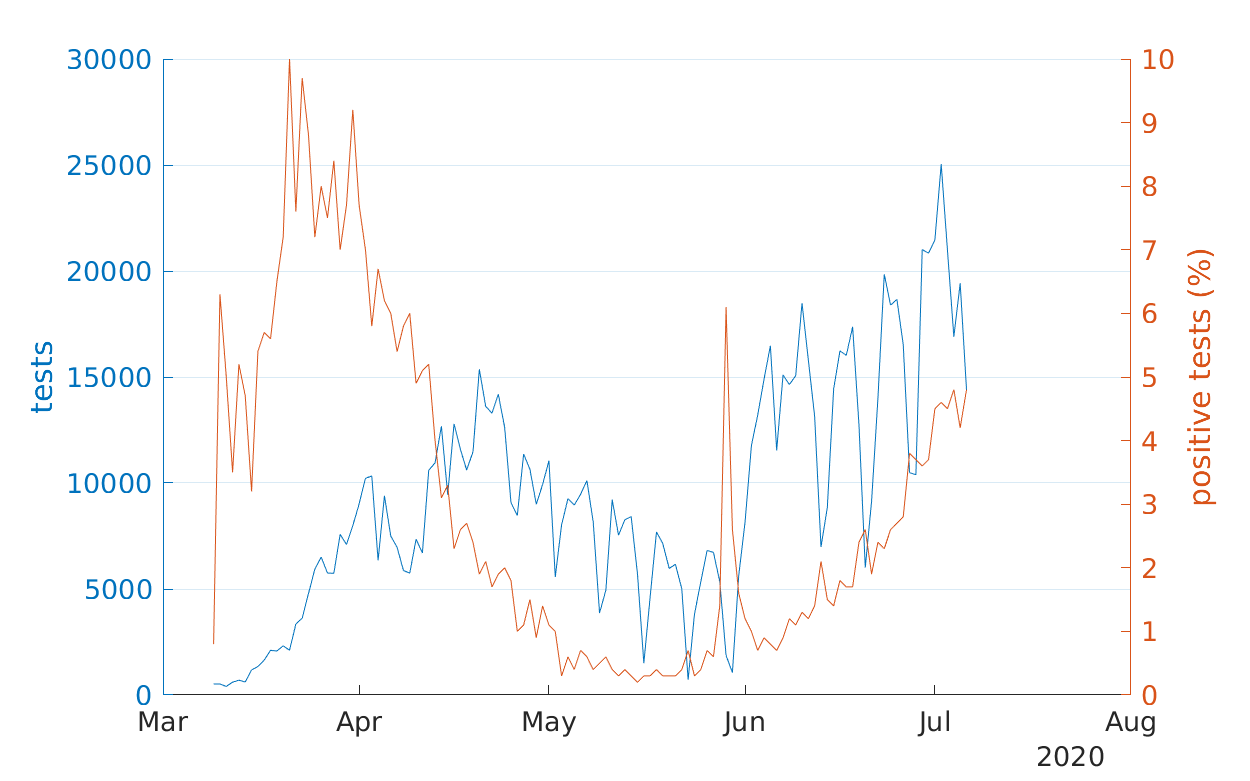
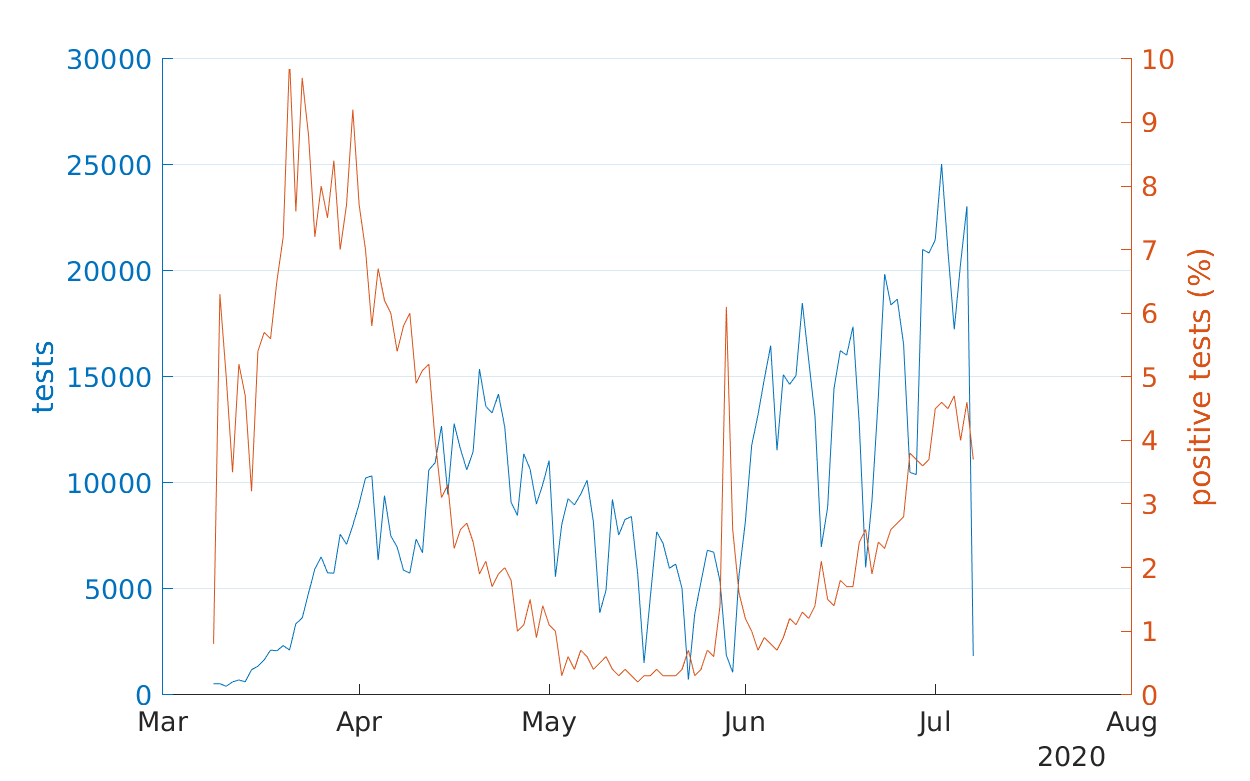
daily update

diff --git a/docs/myCountry.html b/docs/myCountry.html
@@ -121,16 +121,16 @@ body, h1,h2,h3,h4,h5,h6 {font-family: "Montserrat", sans-serif}
 <!-- Page Content -->
 <div class="w3-padding-large" id="main">
   <header class="w3-container w3-padding-32 w3-center w3-black" id="home">
-    <h1 class="w3-jumbo">מצב חולי הקורונה בישראל, 06.07.2020</h1>
+    <h1 class="w3-jumbo">מצב חולי הקורונה בישראל, 07.07.2020</h1>
     <h3 align="right"> כמה חולים במצב קשה, מונשמים ומתים מקורונה בכל יום</h3><br>
     <h4 align="right">מצב המונשמים - (בחמשת הימים האחרונים) כל יום יש כ 2 מונשמים יותר  </h4><br>
-    <h4 align="right">מצב התמותה - (בחמשת הימים האחרונים) כ 2 נפטרים ליום </h4><br>
+    <h4 align="right">מצב התמותה - (בחמשת הימים האחרונים) כ 3 נפטרים ליום </h4><br>
     <img src="myCountry.png" alt="highest" class="w3-image" width="1600">
     <h4 align="right">מימין גרף הסוכם את כל המאושפזים. משמאל אותם הנתונים מוצגים עבור כל קבוצה בנפרד. הגרף מימין מוחלק כדי לראות טרנד כללי. משמאל קל יותר לראות שינויים קצרים, כמו המחזוריות השבועית במספר המאושפזים במצב קל </h4>
   </header>
   <header class="w3-container w3-padding-32 w3-center w3-black" id="home">
     <h1 class="w3-jumbo">אחוז הבדיקות החיוביות</h1>
-    <h3 align="center">תשובה חיובית התקבלה עבור 4.8% מהתוצאות היומיות  </h3>
+    <h3 align="center">תשובה חיובית התקבלה עבור 3.7% מהתוצאות היומיות  </h3>
     <img src="percent_positive.png" alt="highest" class="w3-image" width="851">
   </header>
   <header class="w3-container w3-padding-32 w3-center w3-black" id="home">

diff --git a/docs/realigned.html b/docs/realigned.html
@@ -95,7 +95,7 @@ body, h1,h2,h3,h4,h5,h6 {font-family: "Montserrat", sans-serif}
 <div class="w3-padding-large" id="main">
   <!-- Header/Home -->
   <header class="w3-container w3-padding-32 w3-center w3-black" id="home">
-    <h1 class="w3-jumbo">Realigned curves, 05.07.2020</h1>
+    <h1 class="w3-jumbo">Realigned curves, 06.07.2020</h1>
     <h3> Deaths per million, realigned such that each country's time zero is when 1 death per million was reached. We see the top 20 countries, and we zoom in to see better the bottom half.</h3>
     <img src="realigned.png" alt="realigned" class="w3-image" width="1500">
   </header>

diff --git a/docs/highest_countries.html b/docs/highest_countries.html
@@ -95,7 +95,7 @@ body, h1,h2,h3,h4,h5,h6 {font-family: "Montserrat", sans-serif}
 <div class="w3-padding-large" id="main">
   <!-- Header/Home -->
   <header class="w3-container w3-padding-32 w3-center w3-black" id="home">
-    <h1 class="w3-jumbo">Most affected countries, 05.07.2020</h1>
+    <h1 class="w3-jumbo">Most affected countries, 06.07.2020</h1>
     <h3> Deaths, deaths per million and daily toll. Each plot shows the top 10 countries for the corresponding category.</h3>
     <img src="highest.png" alt="highest" class="w3-image" width="2851">
   </header>

diff --git a/docs/README.md b/docs/README.md
@@ -17,7 +17,7 @@ For the 10 most affected countries by different criteria click [here](highest_co
 Realigned curves for top 20 countries [here](realigned.html)<br>
 To compare Israel to other countries [here](myCountry.html)<br>
 Stay safe     ![falafel](W3CSSTemplateFiles/falafel_trans.png)
-### Last updated for 05.07.2020
+### Last updated for 06.07.2020
 ### Acknowledgements
 The COVID-19 data is taken from the John Hopkins COVID-19 database. The data can be found [here](https://github.com/CSSEGISandData/COVID-19).<br>
 Spain has a drop in total deaths (25-May-2020) because of [data cleaning](https://english.elpais.com/society/2020-05-26/spanish-health-ministry-lowers-coronavirus-death-toll-by-nearly-2000.html). Regions of spain death tolls are provided by [datadista](https://github.com/datadista/datasets/blob/master/COVID%2019/ccaa_covid19_fallecidos.csv).<br>
